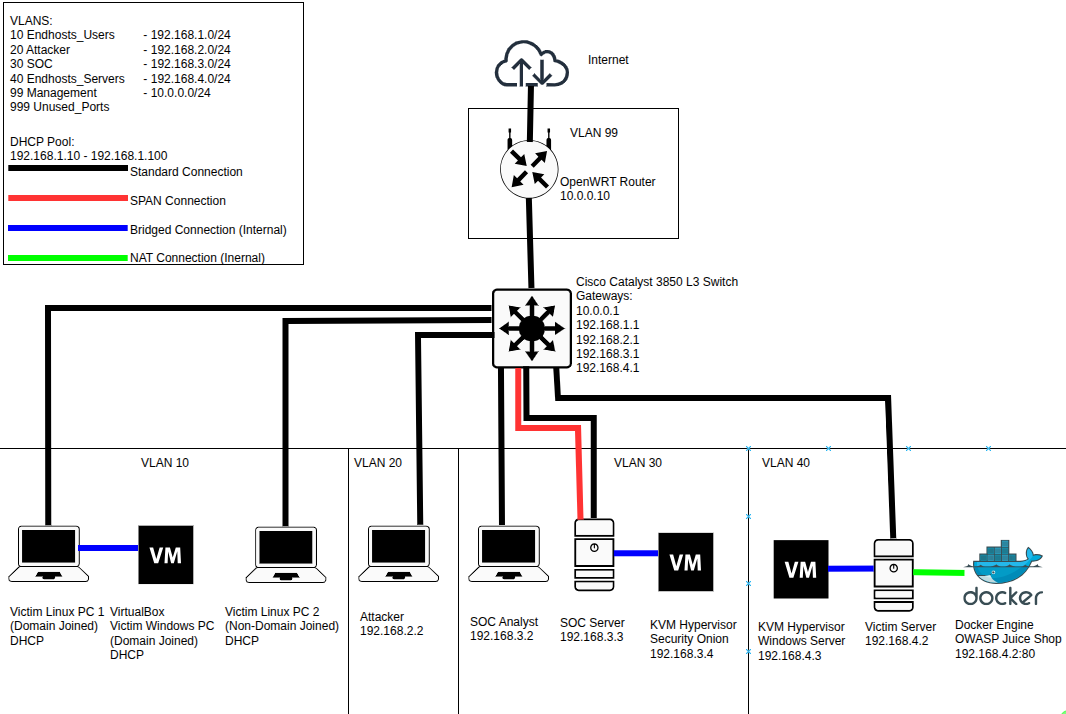
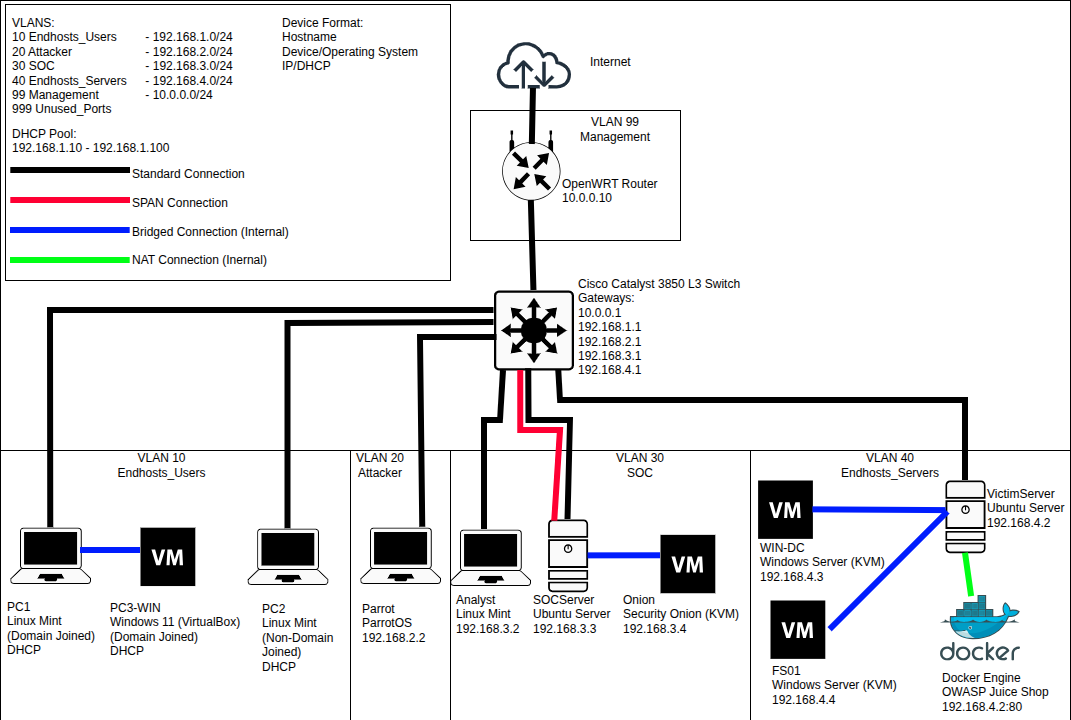
Updated Network Topology and Initial Documentation for Incident 2

diff --git a/README.md b/README.md
@@ -27,12 +27,13 @@ This Project replicates an enterprise-grade security monitoring environment usin
 ## Infrastructure
 | **Component** | **Device/OS** | **Role** |
 | :--- | :--- | :--- |
-| **Core Routing** | L3 Cisco Catalyst 3850 Switch | **Networking & Security:** VLAN segmentation, SVI routing, ACLs **SPAN port:** mirrors all endhost VLAN traffic to SOC Server. |
+| **Core Routing** | L3 Cisco Catalyst 3850 Switch | **Networking & Security:** VLAN segmentation, SVI routing, ACLs **SPAN port:** mirrors all incoming traffic from the endhosts and attacker VLANS to the SOC Server. |
 | **Gateway Router** | OpenWRT Router | **Nat Gateway:** Provides internet access for installing and updating resources inside the LAN |
 | **SOC Server** | Ubuntu Server 26.04 LTS | **Hypervisor:** Hosts Security Onion 2.4 (Standalone) in KVM for log aggregation and threat hunting. |
 | **SOC Workstation** | Linux Mint | **Analysis Station:** Connects to Security Onion's web UI. **Management:** Serial console for Switch, SSH/Web UI for OpenWRT |
 | **Victim Linux/Web Server** | Ubuntu Server 26.04 LTS | **Hypervisor:** Hosts Windows Server in KVM. **Docker Container:** OWASP Juice Shop |
-| **Victim Domain Controller** | Windows Server 2022 | **Core Services:** AD DS, SMB, DHCP, DNS, RDP **Logging:** Sysmon |
+| **Victim Domain Controller** | Windows Server 2022 | **Core Services:** AD DS, DHCP, DNS, RDP **Logging:** Sysmon |
+| **Victim File Server** | Windows Server 2022 | **Core Services:** SMB **Logging:** Sysmon |
 | **Victim Linux Endhost 1** | Linux Mint | **Domain Joined:** Joined to Windows Server **VirtualBox:** Runs Windows Endhost. |
 | **Victim Linux Endhost 2** | Linux Mint | **Non-Domain Joined:** Standalone environment for non-domain related attacks. |
 | **Victim Windows Endhost** | Windows 11 | **Domain Joined:** Joined to Windows Server |
@@ -61,7 +62,7 @@ Contains an overview of the various tools and their purpose in this lab.
 
 ### Architectural Details
 - **Enterprise DHCP Relay:** Assets in VLAN 10, which include domain-joined and standalone endhosts, acquire their IP addresses from the **Windows Server 2022 Domain Controller** via Cisco's `ip helper-address` configuration.
-- **SPAN/Port Mirroring:** The Cisco switch utilizaes a dedicated **SPAN (Switch Port Analyzer)** session to mirror all traffic from VLANs 10,20, and 40 into **Security Onion's** sniffing interface on VLAN 30. This ensures full packet capture without creating any network bottlenecks.
+- **SPAN/Port Mirroring:** The Cisco switch utilizaes a dedicated **SPAN (Switch Port Analyzer)** session to mirror all incoming traffic from VLANs 10,20, and 40 into **Security Onion's** sniffing interface on VLAN 30. This ensures full packet capture without creating any network bottlenecks.
 
 ## Security & Isolation Model
 This lab operates under a **strictly controlled connectivity model** to balance functionality with safety.
@@ -109,10 +110,13 @@ SOC-homelab
 
 [INC-001-Internal-Network-Sweep.md](incidents/INC-001-Internal-Network-Sweep/INC-001-Internal-Network-Sweep.md) - Full incident Report
 
+[INC-002-Fileserver-Exfiltration-Campaign.md](incidents/INC-002-Fileserver-Exfiltration-Campaign/INC-002-Fileserver-Exfiltration-Campaign.md) - Full incident Report
+
 ## Incident Response Simulations
 | **Incident ID** | **Title** | **Status** | **MITRE ATT&CK Technique** | **Activity Start (Zeek)** | **Alerts Start (Suricata)** | **Alerts End** | **Activity End** | **Alert Count** | **Connection Count** | **Src IP** | **Target Scope** | **Conclusion** |
 |---|---|---|---|---|---|---|---|---|---|---|---|---|
 | INC-2026-001 | Internal  Network Sweep | Closed<br>Investigation | T1046 (Discovery) | 2026-07-08<br>14:46:48.797 | 2026-07-08<br>14:46:52.967 | 2026-07-08<br>15:02:03.460 | 2026-07-08<br>15:02:04.518 | 92 | 24,358 | `192.168.2.2` | `192.168.1.0/24`<br>`192.168.4.0/24` | Unauthorized Scan |
+| INC-2026-002 | Fileserver<br>Exfiltration Campaign | Open | T1046 (Discovery) - Network Service Discovery<br>T1110.001 (Credential Access) – Brute Force: Password Guessing<br>T1558.003 (Credential Access) – Steal or Force Kerberos Tickets: Kerberoasting<br>T1110.002 (Credential Access) – Brute Force: Password Cracking<br>T1021 (Lateral Movement) - Remote Services<br>T1048.003 (Exfiltration) – Exfiltration Over Alternative Protocol: Exfiltration Over Unencrypted Non-C2 Protocol | 2026-08-12<br>15:17:59.719 | 2026-08-12<br>15:18:01.335 | 2026-08-12<br>15:27:19.493 | 2026-08-12<br>15:28:28.209 | 4,659 | 15,538 | 192.168.2.2 | 192.168.1.12/24<br>192.168.4.3/24<br>192.168.4.4/24 | Unauthorized Scan<br>Kerberoasting<br>Unauthorized Share Access<br>Data Exfiltration |
 
 ## Disclaimer
 **Disclaimer:** This project is for educational purposes only. All attack simulations were performed in an isolated and controlled environment on my own equipment. 

diff --git a/configs/switch-config.md b/configs/switch-config.md
@@ -46,7 +46,7 @@ Session 1
 ---------
 Type                     : Local Session
 Source VLANs             :
-    Both                 : 10,20,40
+    RX Only              : 10,20,40
 Destination Ports        : Gi1/0/19
     Encapsulation        : Native
           Ingress        : Disabled
@@ -173,7 +173,7 @@ Te1/1/4                unassigned      YES unset  administratively down down
 | SW1    | (config)#          | int range g1/0/1-30                                                             | enable portfast and bpduguard                                |
 | SW1    | (config-if-range)# | spanning-tree portfast                                                          |                                                              |
 | SW1    | (config-if-range)# | spanning-tree bpduguard enable                                                  |                                                              |
-| SW1    | (config)#          | monitor session 1 source vlan 10 , 20 , 40 both                                 | SPAN for SOC Server                                          |
+| SW1    | (config)#          | monitor session 1 source vlan 10 , 20 , 40 rx                                   | SPAN for SOC Server                                          |
 | SW1    | (config)#          | monitor session 1 destiniation int g1/0/19                                      |                                                              |
 | SW1    | (config)#          | int vlan 10                                                                     | SVIs                                                         |
 | SW1    | (config-if)#       | ip address 192.168.1.1 255.255.255.0                                            |                                                              |
